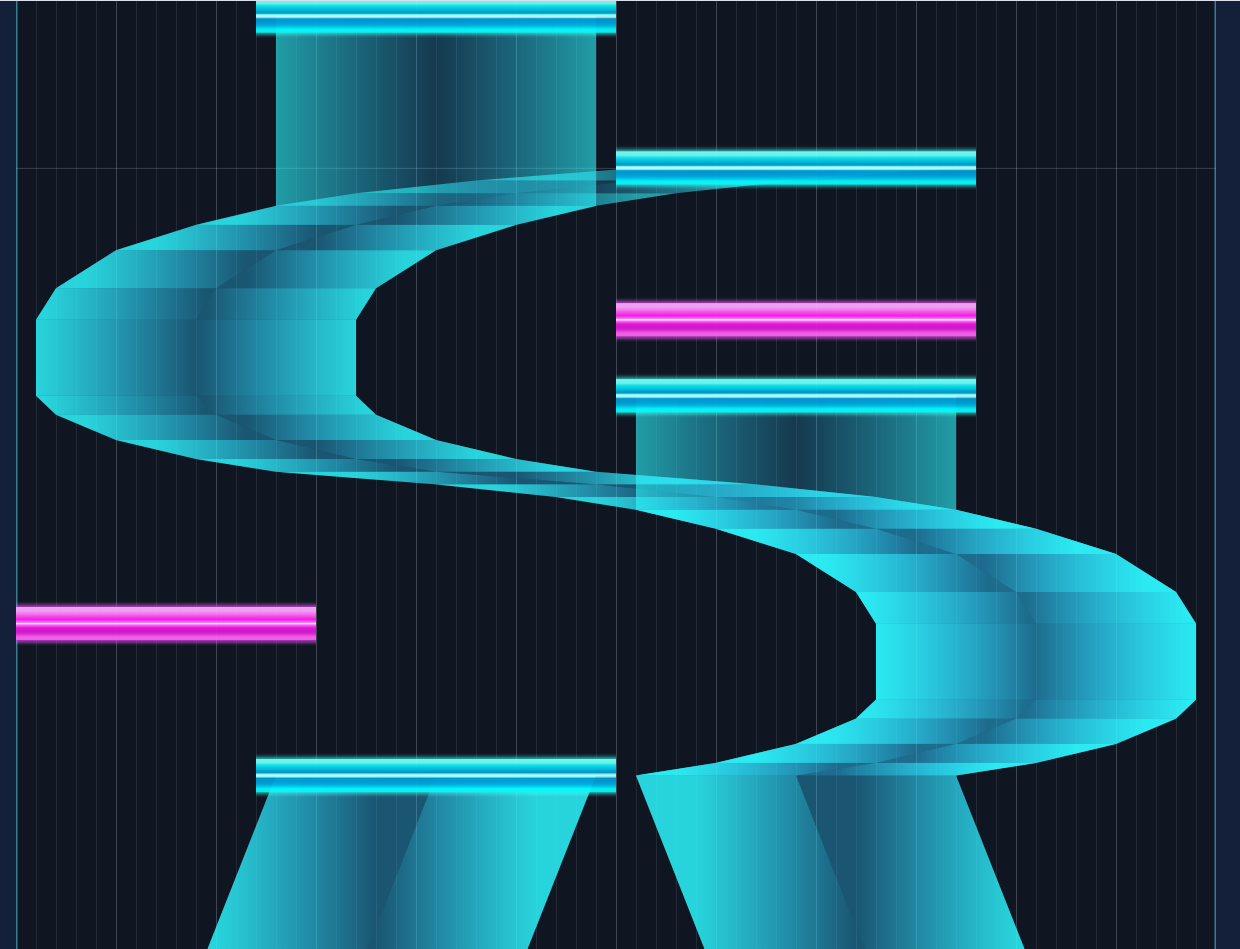
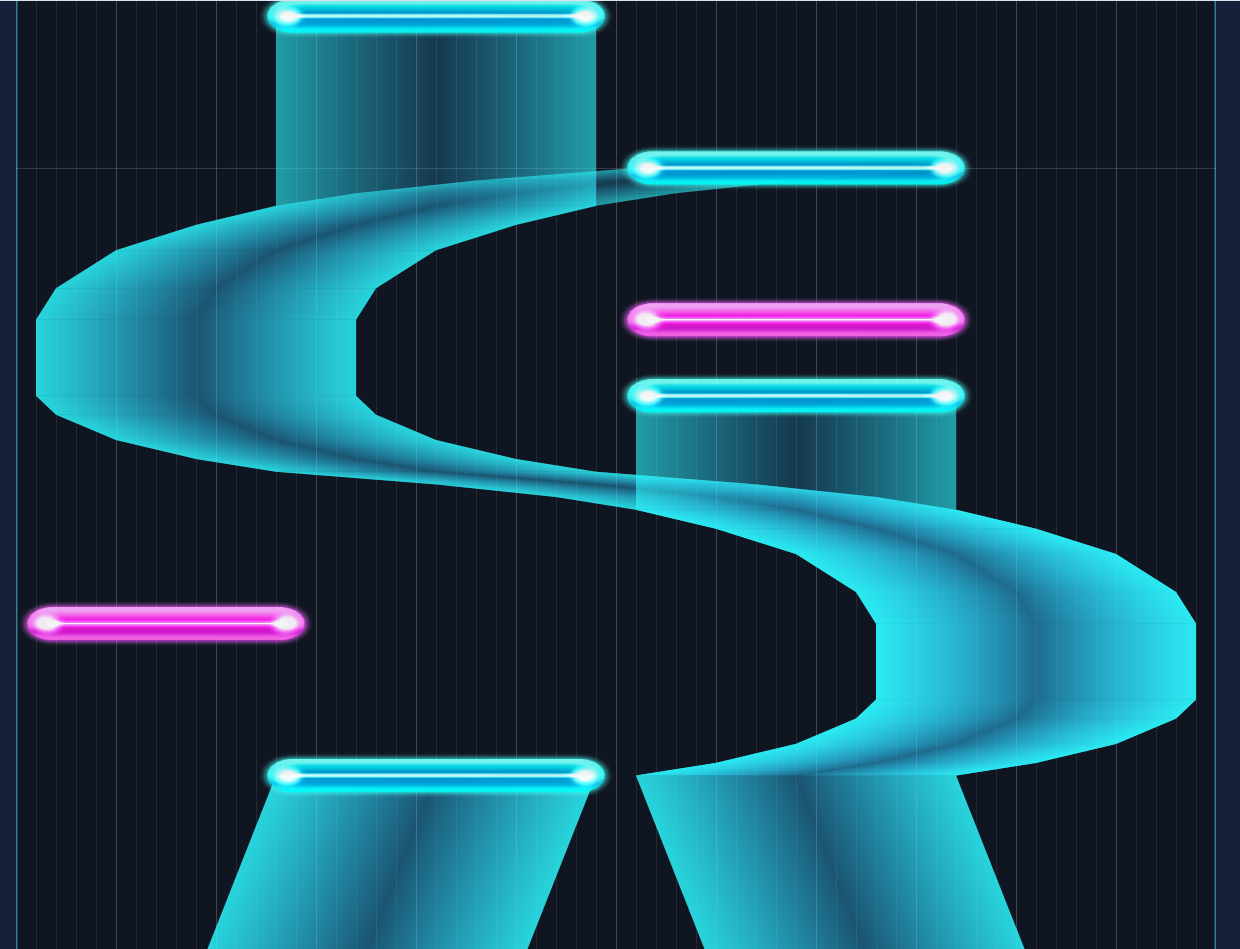
fix: 音符圆角端头失效，弧形 Hold 沿带长漂色
两处都出在把「像素」与「世界单位」混用：

- 九宫格端头：sliceCaps 按世界单位算端头宽（border/ppu×scale ≈ 0.45），
  但调用方传进去的是像素宽，端头被缩到不足 1px，圆角等于没画、整条音符被
  当成中段拉伸。改为统一走世界单位，端头保持原生尺寸。
  端头宽 0.45 世界单位比单格音符本体 0.15 还宽，故单格/双格音符整条由端头
  构成（圆润胶囊），宽音符为「端头＋拉伸中段＋端头」。

- Hold 渐变轴：原先取两列中点的水平连线。原版顶点色沿带长恒定（左列恒 Side、
  中列恒 Center、右列恒 Side），色场只随垂直于带身的距离变化，水平轴会让斜置与
  弧形带子沿长度漂色。改为把两列中点投影到过形心的带法线方向。

实测：斜带修正前每行剖面漂到两套值（243 190 … 与 129 103 79 56），
修正后六行逐值相同（129 103 79 56 79 103 129）；单格音符剖面呈端头渐入
（46 74 122 148 204 235 … 243），直角实心块则不会渐入。

新增 3 个几何单测（渐变轴垂直性、轴长、法线取反不翻转）与 2 个浏览器用例
（端头渐入、斜带不漂色）。

diff --git a/tests/browser/flat.spec.ts b/tests/browser/flat.spec.ts
@@ -121,6 +121,79 @@ test('音符贴图载入后就位', async ({ page }) => {
   expect(missing.keys).toBe(4);
 });
 
+test('音符端头是圆角，中段不拉伸端头', async ({ page }) => {
+  await importChart(page, SAMPLE);
+  // 1.0 s 处的 Single（轨道 10–12，3 格宽）。端头贴图单侧就宽于该音符，
+  // 因此整条由两个端头拼成，剖面应呈「亮边—平台—平台—亮边」。
+  const prof = await page.locator('#canvas').evaluate(el => {
+    const c = el as HTMLCanvasElement;
+    const ctx = c.getContext('2d')!;
+    const dpr = c.width / c.clientWidth;
+    const y = Math.round((16 + 1.0 * 90) * dpr);
+    const { data, width } = ctx.getImageData(0, y, c.width, 1);
+    // 背景 #0f1622 = (15,22,34)：明显偏离即内容（音符是品红系，不能用青色滤镜）。
+    // 轨道边框也是内容，故按连通段取最长的那一段 = 音符本体。
+    const groups: number[][] = [];
+    let cur: number[] = [];
+    let lastX = -10;
+    for (let x = 0; x < width; x++) {
+      const r = data[x * 4], g = data[x * 4 + 1], b = data[x * 4 + 2];
+      const content = Math.abs(r - 15) + Math.abs(g - 22) + Math.abs(b - 34) > 60;
+      if (content) {
+        if (x - lastX > 2) { if (cur.length) groups.push(cur); cur = []; }
+        cur.push(g); lastX = x;
+      }
+    }
+    if (cur.length) groups.push(cur);
+    return groups.sort((a, b) => b.length - a.length)[0] ?? [];
+  });
+  expect(prof.length).toBeGreaterThan(20);
+  const peak = Math.max(...prof);
+  // 圆角端头贴图在两端是渐入的（实测剖面 46 74 122 148 204 235 … 243 平台），
+  // 直角实心块则会一上来就是满亮度。这就是「端头没被中段拉伸」的判据。
+  expect(peak).toBeGreaterThan(200);
+  expect(prof[0]).toBeLessThan(peak - 80);
+  expect(prof[prof.length - 1]).toBeLessThan(peak - 80);
+});
+
+test('斜置 Hold 沿带长不漂色', async ({ page }) => {
+  // 头 10–20 → 尾 40–50 的斜带；若渐变轴是水平的，颜色会沿带长漂移。
+  const SLANT = {
+    Offset: 0,
+    Bpms: [{ Time: 0, Bpm: 120 }],
+    Beats: [{ Numerator: 4, Denominator: 4, Time: 0 }],
+    Notes: [{ Uid: 1, just: '1.0', holds: ['2.0'], Flags: FLAGS(1, 10, 20, 40, 50) }],
+  };
+  await importChart(page, SLANT);
+  const profs = await page.locator('#canvas').evaluate(el => {
+    const c = el as HTMLCanvasElement;
+    const ctx = c.getContext('2d')!;
+    const dpr = c.width / c.clientWidth;
+    const padY = 16, pxPerSec = 90;
+    const sample = (t: number) => {
+      const y = Math.round((padY + t * pxPerSec) * dpr);
+      const { data, width } = ctx.getImageData(0, y, c.width, 1);
+      const g: number[] = [];
+      for (let x = 0; x < width; x++) {
+        const r = data[x * 4], gg = data[x * 4 + 1], b = data[x * 4 + 2];
+        if (gg > 60 && b > 60 && gg > r + 18) g.push(gg);
+      }
+      if (g.length < 10) return null;
+      // 归一化到 9 个采样点，便于跨行比较。
+      return Array.from({ length: 9 }, (_, i) => g[Math.round((g.length - 1) * i / 8)]);
+    };
+    return [1.2, 1.4, 1.6, 1.8].map(sample);
+  });
+  const rows = profs.filter(Boolean) as number[][];
+  expect(rows.length).toBe(4);
+  // 中列应显著暗于两侧，且各行的中列值一致（不漂色）。
+  const mids = rows.map(r => r[4]);
+  expect(Math.max(...mids) - Math.min(...mids)).toBeLessThan(20);
+  for (const r of rows) {
+    expect(r[1]).toBeGreaterThan(r[4] + 30);
+    expect(r[7]).toBeGreaterThan(r[4] + 30);
+  }
+});
 test('Hold 宽带横截面呈现 Center 暗、两侧亮', async ({ page }) => {
   await importChart(page, SAMPLE);
   // 在 2.5 s 处整行扫描，先定位宽带实际跨度（节点斜置时跨度随时间平移），

diff --git a/src/renderer.ts b/src/renderer.ts
@@ -10,8 +10,8 @@ import {
   type Layout, chainEnd, contentHeight, edgeX, noteSpan, measures, timeY, trackWidth,
 } from './view';
 import {
-  type BandHalf, type SpriteMeta, NOTE_SPRITE, chainBandHalves, cssRgba,
-  laneX, noteSpriteSize, sliceCaps,
+  type BandHalf, type SpriteMeta, NOTE_SPRITE, SPRITE_SCALE_X, chainBandHalves, cssRgba,
+  laneX, noteDepthWorld, noteSpriteSize, noteWidthWorld, pxPerWorld, sliceCaps,
 } from './slice';
 
 /** 未加载到贴图时的兜底配色，沿用原版四类。 */
@@ -193,7 +193,7 @@ export class FlatRenderer {
         const [x0, x1] = noteSpan(n, lay, false);
         const y = timeY(n.time, lay);
         if (img && meta) {
-          this.drawSliced(img, meta, x0, y, Math.max(1, x1 - x0), n.r - n.l + 1, type, lay);
+          this.drawSliced(img, meta, (x0 + x1) / 2, y, n.r - n.l + 1, type, lay);
         } else {
           const th = Math.max(instantPx, noteSpriteSize(n.r - n.l + 1, type, lay).h);
           ctx.fillRect(x0, y - th / 2, Math.max(1, x1 - x0), th);
@@ -228,8 +228,7 @@ export class FlatRenderer {
     const meta = this.lib.meta[1];
     if (!img || !meta) return;
     const x0 = laneX(l, lay), x1 = laneX(r + 1, lay);
-    const a = Math.min(x0, x1), b = Math.max(x0, x1);
-    this.drawSliced(img, meta, a, timeY(time, lay), Math.max(1, b - a), r - l + 1, 1, lay);
+    this.drawSliced(img, meta, (x0 + x1) / 2, timeY(time, lay), r - l + 1, 1, lay);
   }
 
   /** 一个宽带半边：横向从一列渐变到另一列。 */
@@ -249,29 +248,30 @@ export class FlatRenderer {
     ctx.fill();
   }
 
-  /** 九宫格横向拉伸：左右端头原样、中段拉伸，纵向整体缩放到原版厚度。 */
+  /** 九宫格横向拉伸：左右端头保持原生尺寸（圆角不变形），仅中段拉伸。 */
   private drawSliced(
-    img: HTMLImageElement, meta: SpriteMeta, x0: number, yCenter: number,
-    targetW: number, widthUnits: number, type: number, lay: Layout,
+    img: HTMLImageElement, meta: SpriteMeta, centerX: number, yCenter: number,
+    widthUnits: number, type: number, lay: Layout,
   ) {
     const ctx = this.ctx;
-    const { w: worldW, h: worldH } = noteSpriteSize(widthUnits, type, lay);
-    const w = Math.max(targetW, worldW);
-    const h = Math.max(2, worldH);
+    const k = pxPerWorld(lay);
+    // 世界单位：与 sliceCaps 同口径，避免把像素宽当成世界宽。
+    const worldW = noteWidthWorld(widthUnits) * SPRITE_SCALE_X;
+    const w = worldW * k;
+    const h = Math.max(2, noteDepthWorld(type) * SPRITE_SCALE_X * k);
     const rect = meta.rect;
     const sw = rect[2] || img.naturalWidth, sh = rect[3] || img.naturalHeight;
     const caps = sliceCaps(meta, worldW);
-    const scale = worldW > 0 ? w / worldW : 1;
-    const left = caps.left * scale, right = caps.right * scale;
+    const left = caps.left * k, right = caps.right * k;
     const mid = Math.max(0, w - left - right);
-    const x = x0 + (targetW - w) / 2;
+    const x = centerX - w / 2;
     const y = yCenter - h / 2;
     const uL = caps.uL, uR = caps.uR;
     const draw = (dx: number, dw: number, sx: number, sWidth: number) => {
       if (dw <= 0.01 || sWidth <= 0.01) return;
       ctx.drawImage(img, sx, 0, sWidth, sh, dx, y, dw, h);
     };
-    // 端头若超出目标宽度，sliceCaps 已按比例缩小，三段仍首尾相接。
+    // 端头超宽时 sliceCaps 已等比缩小，三段仍首尾相接。
     draw(x, left, 0, sw * uL);
     draw(x + left, mid, sw * uL, sw * (1 - uL - uR));
     draw(x + left + mid, right, sw * (1 - uR), sw * uR);

diff --git a/src/slice.ts b/src/slice.ts
@@ -109,7 +109,11 @@ export function sliceCaps(meta: SpriteMeta | undefined, worldW: number): SliceCa
 export interface BandHalf {
   /** 四角，顺序：头排近列、头排远列、尾排远列、尾排近列。 */
   corners: [number, number][];
-  /** 渐变起点与终点（两列在头尾两排的中点）。 */
+  /**
+   * 渐变轴的两个端点。原版的顶点色**沿带长恒定**（左列恒 Side、中列恒 Center、
+   * 右列恒 Side），色场只随「垂直于带身的距离」变化，所以渐变轴必须垂直于带轴，
+   * 否则斜置的带子会沿长度漂色。
+   */
   gradFrom: [number, number];
   gradTo: [number, number];
   /** 起点与终点各自的颜色（含 alpha）。 */
@@ -139,15 +143,45 @@ export function bandHalves(note: Note, lay: Layout, active = false): BandHalf[] 
   for (const [a, b] of [[0, 1], [1, 2]] as const) {
     // 带宽退化（Width ≤ 2）时该半边没有面积，原版会画出一条反向窄带，此处跳过。
     if (Math.abs(hx[b] - hx[a]) < 0.01 && Math.abs(tx[b] - tx[a]) < 0.01) continue;
+    const corners: [number, number][] = [[hx[a], y0], [hx[b], y0], [tx[b], y1], [tx[a], y1]];
     out.push({
-      corners: [[hx[a], y0], [hx[b], y0], [tx[b], y1], [tx[a], y1]],
-      gradFrom: [(hx[a] + tx[a]) / 2, (y0 + y1) / 2],
-      gradTo: [(hx[b] + tx[b]) / 2, (y0 + y1) / 2],
+      corners,
+      ...gradientAxis(corners),
       fromColor: a === 0 ? side : center,
       toColor: b === 2 ? side : center,
     });
   }
   return out;
+}
+
+/**
+ * 把渐变轴摆到「垂直于带轴」的方向上。
+ *
+ * 直接取两列中点连线会得到一条水平轴，斜置带子据此上色就会沿长度漂色。
+ * 这里把两列中点投影到过形心的带法线方向，得到真正的横向色场。
+ */
+function gradientAxis(c: [number, number][]): { gradFrom: [number, number]; gradTo: [number, number] } {
+  const [ha, hb, tb, ta] = c;
+  const headMid: [number, number] = [(ha[0] + hb[0]) / 2, (ha[1] + hb[1]) / 2];
+  const tailMid: [number, number] = [(ta[0] + tb[0]) / 2, (ta[1] + tb[1]) / 2];
+  const cx = (ha[0] + hb[0] + tb[0] + ta[0]) / 4;
+  const cy = (ha[1] + hb[1] + tb[1] + ta[1]) / 4;
+  // 带轴方向与其法线；带轴退化为点时退回水平。
+  let dx = tailMid[0] - headMid[0], dy = tailMid[1] - headMid[1];
+  const len = Math.hypot(dx, dy);
+  if (len < 1e-9) { dx = 0; dy = 1; }
+  const nx = -dy / Math.max(len, 1e-9), ny = dx / Math.max(len, 1e-9);
+  // 两列中点各自沿法线投影到过形心的直线。
+  const proj = (p: [number, number]): [number, number] => {
+    const t = (p[0] - cx) * nx + (p[1] - cy) * ny;
+    return [cx + nx * t, cy + ny * t];
+  };
+  const aMid: [number, number] = [(ha[0] + ta[0]) / 2, (ha[1] + ta[1]) / 2];
+  const bMid: [number, number] = [(hb[0] + tb[0]) / 2, (hb[1] + tb[1]) / 2];
+  const pa = proj(aMid), pb = proj(bMid);
+  // 法线取反时保证起点仍是 a 列一侧。
+  const forward = (pb[0] - pa[0]) * (bMid[0] - aMid[0]) + (pb[1] - pa[1]) * (bMid[1] - aMid[1]) >= 0;
+  return forward ? { gradFrom: pa, gradTo: pb } : { gradFrom: pb, gradTo: pa };
 }
 
 /** 连续轨道坐标 → 画布 x（含镜像）。 */

diff --git a/tests/slice.test.ts b/tests/slice.test.ts
@@ -160,6 +160,41 @@ describe('Hold 宽带三列', () => {
     expect(mir[0].corners[0][0]).toBeGreaterThan(plain[0].corners[0][0]);
   });
 
+  it('斜置时渐变轴垂直于带轴，不沿带长漂色', () => {
+    // 头 10–20 → 尾 40–50：带轴明显倾斜。
+    const c = chart([{ Uid: 1, just: '1.0', holds: ['2.0'], Flags: flags(1, 10, 20, 40, 50) }]);
+    const l = lay({ lanePx: 10, pxPerSec: 100 });
+    for (const half of bandHalves(c.roots[0], l)) {
+      const [ha, hb, tb, ta] = half.corners;
+      const headMid = [(ha[0] + hb[0]) / 2, (ha[1] + hb[1]) / 2];
+      const tailMid = [(ta[0] + tb[0]) / 2, (ta[1] + tb[1]) / 2];
+      const ax = tailMid[0] - headMid[0], ay = tailMid[1] - headMid[1];
+      const gx = half.gradTo[0] - half.gradFrom[0], gy = half.gradTo[1] - half.gradFrom[1];
+      const cos = (ax * gx + ay * gy) / (Math.hypot(ax, ay) * Math.hypot(gx, gy));
+      expect(Math.abs(cos)).toBeLessThan(1e-9);
+    }
+  });
+
+  it('渐变轴长度等于带身的垂直宽度', () => {
+    const c = chart([{ Uid: 1, just: '1.0', holds: ['2.0'], Flags: flags(1, 10, 20) }]);
+    const l = lay({ lanePx: 10 });
+    // 水平带：垂直宽度 = 一列到另一列的横向距离。
+    for (const half of bandHalves(c.roots[0], l)) {
+      const len = Math.hypot(half.gradTo[0] - half.gradFrom[0], half.gradTo[1] - half.gradFrom[1]);
+      expect(len).toBeCloseTo(4.5 * l.lanePx, 6);   // (15.5−11) 格
+    }
+  });
+
+  it('渐变起点仍对应左列（法线取反也不翻转）', () => {
+    for (const [l2, r2] of [[30, 40], [10, 20], [20, 30]]) {
+      const c = chart([{ Uid: 1, just: '1.0', holds: ['2.0'], Flags: flags(1, 10, 20, l2, r2) }]);
+      const h = bandHalves(c.roots[0], lay({ lanePx: 10, pxPerSec: 100 }));
+      // 左半边的起点色恒为 Side，终点恒为 Center。
+      expect(h[0].fromColor.slice(0, 3)).toEqual([...HOLD_SIDE]);
+      expect(h[0].toColor.slice(0, 3)).toEqual([...HOLD_CENTER]);
+    }
+  });
+
   it('链按源数组顺序逐节点产出半边', () => {
     // 串链谓词：首段 (l2,r2) 必须等于次段 (l,r)，故次段沿用 [10,20]。
     const c = chart([

diff --git a/docs/evidence.md b/docs/evidence.md
@@ -33,11 +33,14 @@ GetNoteSize(width) = ((width − 6) × 0.2 + 1.15, 1.0)   // width = |l − r| +
 再乘 prefab 里 `SpriteRenderer` 的 `scale.x = 0.75`。纵向厚度 `type === 3 ? 0.35 : 0.45`。
 单格音符的视觉宽度 0.15 恰等于一格逻辑宽度（`laneWidth`）。
 
-横向九宫格按 Unity `SpriteDrawMode.Sliced`：左右端头各取 `border / ppu × scale`，
-两端头之和超过目标宽度时等比缩到恰好铺满、中段为 0。
+横向九宫格按 Unity `SpriteDrawMode.Sliced`：左右端头各取 `border / ppu × scale`
+（**保持原生尺寸，圆角不变形**），两端头之和超过目标宽度时等比缩到恰好铺满、中段为 0。
+端头宽约 0.45 世界单位，比单格音符本体（0.15）还宽 —— 单格与双格音符整条都由端头构成，
+所以它们看起来是圆润的胶囊；宽音符则由「端头 + 拉伸中段 + 端头」拼成。
 
 平面视图令一格 = `lanePx` 像素，于是 `pxPerWorld = lanePx / 0.15`，横纵共用同一比例，
-贴图纵横比与原版一致。
+贴图纵横比与原版一致。**九宫格边距与世界尺寸必须同一口径**：把像素宽当世界宽传进去，
+端头会缩到不足 1px，圆角就没了。
 
 ## Hold 宽带
 
@@ -52,6 +55,11 @@ GetCenterMeshX(m) = lane0Left + laneWidth * (m + 0.5)  ⇒ 轨道坐标 (l+r)/2 
 
 ⇒ **宽带比音符本体左右各内缩整一格**，带宽 `(Width − 2)` 格。`Width = 1` 时带宽为负、
 绕序翻转，原版照画不补最小宽度；`Width = 2` 时恰为 0。
+
+顶点色**沿带长恒定**（左列恒 Side、中列恒 Center、右列恒 Side），色场只随「垂直于带身的距离」变化。
+所以横向渐变轴必须**垂直于带轴**：直接用两列中点连线会得到一条水平轴，斜置或弧形的带子
+据此上色就会沿长度漂色（实测斜带每行剖面漂到 `243 190 …` 与 `129 103 79 56` 两套值）。
+正确做法是把两列中点投影到过形心的带法线方向；修正后六行剖面逐值相同（`129 103 79 56 79 103 129`）。
 
 头尾另贴 `ui_sc2_ingame_notes_hold`（原版 prefab 的 `Silhouette` / `Silhouette-End`）。
 
